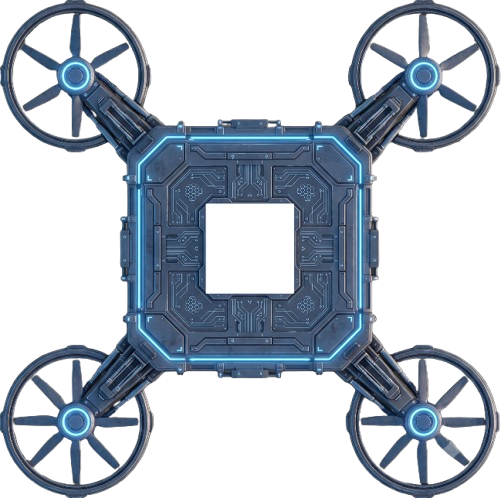
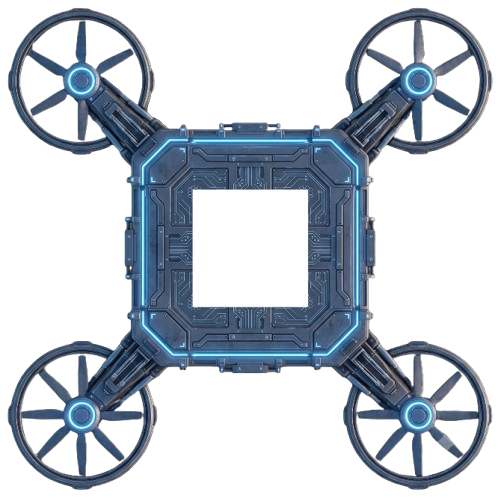
inter graph fonctionelle avec animation

diff --git a/graph.py b/graph.py
@@ -1,6 +1,7 @@
 import tkinter as tk
 from drone_map_models import Map, Drone
 from hub_link_models import StartHub, EndHub, Hub, Link
+import time
 
 
 class SimulationGUI:
@@ -19,7 +20,7 @@ class SimulationGUI:
         drone_sprite (tk.PhotoImage): The sprite image for drone.
     """
 
-    def __init__(self, network_map: Map, scale: int = 120) -> None:
+    def __init__(self, network_map: Map, scale: int = 150) -> None:
         """Initializes the GUI, canvas, and loads sprites.
 
         Args:
@@ -27,25 +28,27 @@ class SimulationGUI:
             scale (int): The multiplication factor for coordinates.
         """
         self.network_map = network_map
-        self.scale = scale
+        if len(self.network_map.hubs) > 35:
+            self.scale = 100
+        else:
+            self.scale = scale
         self.drone_items: dict[str, dict[str, int]] = {}
 
         self.offset_x: int = 100
-        self.offset_y: int = 600
+        self.offset_y: int = 400
         self.root = tk.Tk()
         self.root.title("Fly-in 42")
-        self.canvas = tk.Canvas(self.root, height=1000, width=2700, bg="white")
+        if len(self.network_map.hubs) > 8:
+            self.canvas = tk.Canvas(self.root, height=800, width=2700, bg="white")
+        else:
+            self.canvas = tk.Canvas(self.root, height=800, width=1350, bg="white")
         self.canvas.pack()
         hub_sprite = tk.PhotoImage(file="Assets/hub.png")
-        self.start_hub_sprite = hub_sprite.subsample(4, 4)
-        self.end_hub_sprite = hub_sprite.subsample(4, 4)
+        self.start_hub_sprite = hub_sprite.subsample(5, 5)
+        self.end_hub_sprite = hub_sprite.subsample(5, 5)
         self.hub_sprite = hub_sprite.subsample(9, 9)
-        h_link_sprite = tk.PhotoImage(file="Assets/h_link.png")
-        self.h_link_sprite = h_link_sprite.subsample(30, 30)
-        v_link_sprite = tk.PhotoImage(file="Assets/v_link.png")
-        self.v_link_sprite = v_link_sprite.subsample(30, 30)
         drone_sprite = tk.PhotoImage(file="Assets/drone.png")
-        self.drone_sprite = drone_sprite.subsample(8, 8)
+        self.drone_sprite = drone_sprite.subsample(6, 6)
 
     def _draw_hubs(self) -> None:
         """Draws all hubs from the network map onto the canvas.
@@ -87,10 +90,10 @@ class SimulationGUI:
                 self.canvas.create_image(x_px, y_px, image=self.hub_sprite)
 
     def _draw_links(self) -> None:
-        """Draws orthogonal links between hubs using sprites.
+        """Draws straight lines between connected hubs.
 
-        Iterates through the network adjacency list and places
-        horizontal and vertical link sprites to connect hubs.
+        Iterates through the network adjacency list and uses the canvas
+        to draw direct lines connecting hub_1 and hub_2 for each link
         """
 
         drawn_links: set[str] = set()
@@ -106,23 +109,8 @@ class SimulationGUI:
                     x2_px = (link.hub_2.x * self.scale) + self.offset_x
                     y2_px = (link.hub_2.y * self.scale) + self.offset_y
 
-                    for step_y in range(min(y1_px, y2_px),
-                                        (max(y1_px, y2_px) -
-                                         (self.v_link_sprite.height() // 2)),
-                                        self.v_link_sprite.height()):
-                        self.canvas.create_image(x1_px,
-                                                 step_y + (self.v_link_sprite.height() // 2) - (self.v_link_sprite.width() // 2),
-                                                 image=self.v_link_sprite)
-                    # if y1_px != y2_px and x1_px != x2_px:
-                        # self.canvas.create_image(x1_px, y2_px,
-                        #                         image=self.v_link_sprite)
-                    for step_x in range(min(x1_px, x2_px),
-                                        (max(x1_px, x2_px) -
-                                         (self.h_link_sprite.width() // 2)),
-                                        self.h_link_sprite.width()):
-                        self.canvas.create_image(step_x + (self.h_link_sprite.width() // 2) + (self.h_link_sprite.height() // 2),
-                                                 y2_px,
-                                                 image=self.h_link_sprite)
+                    self.canvas.create_line(x1_px, y1_px, x2_px, y2_px,
+                                            fill="lightgreen", width=7)
 
     def _init_drones(self, drones: list[Drone]) -> None:
         """Draws drones and their text IDs at the starting hub.
@@ -142,7 +130,7 @@ class SimulationGUI:
                                                 image=self.drone_sprite),
                 "text": self.canvas.create_text(x_px, y_px,
                                                 text=drone.drone_id,
-                                                fill="black")
+                                                fill="red")
             }
 
     def update_drone(self, drone_id: str, target: Hub | Link,
@@ -162,27 +150,51 @@ class SimulationGUI:
         """
         # Recuperer l'ID Tkinter du drone via self.drone_items
         t_id = self.drone_items[drone_id]
-        # Calculer les nouvelles coordonnees en pixels (x_px, y_px)
+        coords = self._get_target_coords(target, overlap_index)
+        # Mettre a jour la position avec self.canvas.coords()
+        self.canvas.coords(t_id["img"], coords[0], coords[1])
+        self.canvas.coords(t_id["text"], coords[0], coords[1])
+
+    def _get_target_coords(self, target: Hub | Link,
+                           overlap_index: int = 0) -> tuple[float, float]:
         if isinstance(target, Hub):
             new_x = target.x
             new_y = target.y
         elif isinstance(target, Link):
-            if (target.hub_1.y != target.hub_2.y and
-                    target.hub_1.x != target.hub_2.x):
-                new_x = target.hub_1.x
-                new_y = target.hub_2.y
-            elif target.hub_1.x == target.hub_2.x:
-                new_x = target.hub_1.x
-                new_y = (target.hub_1.y + target.hub_2.y) // 2
-            elif target.hub_1.y == target.hub_2.y:
-                new_y = target.hub_1.y
-                new_x = (target.hub_1.x + target.hub_2.x) // 2
+            new_x = (target.hub_1.x + target.hub_2.x) / 2
+            new_y = (target.hub_1.y + target.hub_2.y) / 2
         x_px = (new_x * self.scale) + self.offset_x
         x_px -= (overlap_index * 10)
         y_px = (new_y * self.scale) + self.offset_y
-        # Mettre a jour la position avec self.canvas.coords()
-        self.canvas.coords(t_id["img"], x_px, y_px)
-        self.canvas.coords(t_id["text"], x_px, y_px)
+        return (x_px, y_px)
+
+    def animate_drones(self, moves: list[tuple[Drone, Hub | Link, int]],
+                       frames: int = 25, duration: float = 0.4) -> None:
+        """Animates multiple drones moving to their targets simultaneously.
+
+        Args:
+            moves (list[tuple[Drone, Hub | Link, int]]): A list of tuples
+                containing (drone, target, overlap_index) for this turn.
+            frames (int): Total number of intermediate steps for animation.
+            duration (float): Total time of the animation in seconds.
+        """
+        positions: dict[Drone, tuple[float, float]] = {}
+        for m in moves:
+            curr_x, curr_y = self.canvas.coords(self.drone_items[m[0].drone_id]["img"])
+            tar_coords = self._get_target_coords(m[1], m[2])
+            dx = (tar_coords[0] - curr_x) / frames
+            dy = (tar_coords[1] - curr_y) / frames
+            positions[m[0]] = (dx, dy)
+        for i in range(frames):
+            for drone, dcoord in positions.items():
+                self.canvas.move(
+                    self.drone_items[drone.drone_id]["img"],
+                    dcoord[0], dcoord[1])
+                self.canvas.move(
+                    self.drone_items[drone.drone_id]["text"],
+                    dcoord[0], dcoord[1])
+            self.root.update()
+            time.sleep(duration / frames)
 
     def setup(self, drones: list[Drone]) -> None:
         """Initializes the visual elements on the canvas in the correct order.

diff --git a/main.py b/main.py
@@ -55,16 +55,20 @@ class Simulation:
         """
         res: list[str] = []
         drones_count: dict[Hub | Link, int] = {}
+        moves: list[tuple[Drone, Hub | Link, int]] = []
         for drone in self.drones:
             if not drone.is_arrived:
                 target = drone.path.pop(0)
                 if target != drone.current_pos:
                     log = f"{drone.drone_id}-{target.name}"
                     res.append(log)
-                drone.move(target)
                 overlap_index = drones_count.get(target, 0)
                 drones_count[target] = overlap_index + 1
-                self.gui.update_drone(drone.drone_id, target, overlap_index)
+                moves.append((drone, target, overlap_index))
+                drone.move(target)
+        self.gui.animate_drones(moves)
+        for m in moves:
+            self.gui.update_drone(m[0].drone_id, m[1], m[2])
         return res
 
     def run(self) -> None:
@@ -77,7 +81,7 @@ class Simulation:
             if movements:
                 print(" ".join(movements))
             self.gui.root.update()
-            time.sleep(1)
+            time.sleep(0.2)
         metrics.print_metrics()
         self.gui.root.mainloop()
 
@@ -100,7 +104,9 @@ class Metrics:
         self.drones = drones
         self.nb_drones: int = len(drones)
         self.turn_count: int = 0
-        self.total_path_cost: int = sum(len(drone.path) for drone in drones)
+        self.total_path_cost: int = sum(
+            sum(1 for i, step in enumerate(drone.path)
+                if i == 0 or step != drone.path[i-1]) for drone in drones)
         self.turns_per_drone: float = self.total_path_cost / self.nb_drones
 
     def print_metrics(self) -> None:

diff --git a/pathfinding.py b/pathfinding.py
@@ -44,6 +44,9 @@ class Pathfinder:
         valid_moves: list[Hub | Link] = []
 
         if isinstance(current_pos, Hub):
+            if (self.calendar.get(current_time + 1, {}).get(current_pos, 0)
+                    < current_pos.max_drones):
+                valid_moves.append(current_pos)
             for link in self.network_map.adjacency[current_pos.name]:
                 if link.hub_1 != current_pos:
                     target = link.hub_1
@@ -62,9 +65,6 @@ class Pathfinder:
                          < target.max_drones)
                     ):
                         valid_moves.append(link)
-            if (self.calendar.get(current_time + 1, {}).get(current_pos, 0)
-                    < current_pos.max_drones):
-                valid_moves.append(current_pos)
 
         elif isinstance(current_pos, Link):
             parent = came_from[(current_time, current_pos)]
